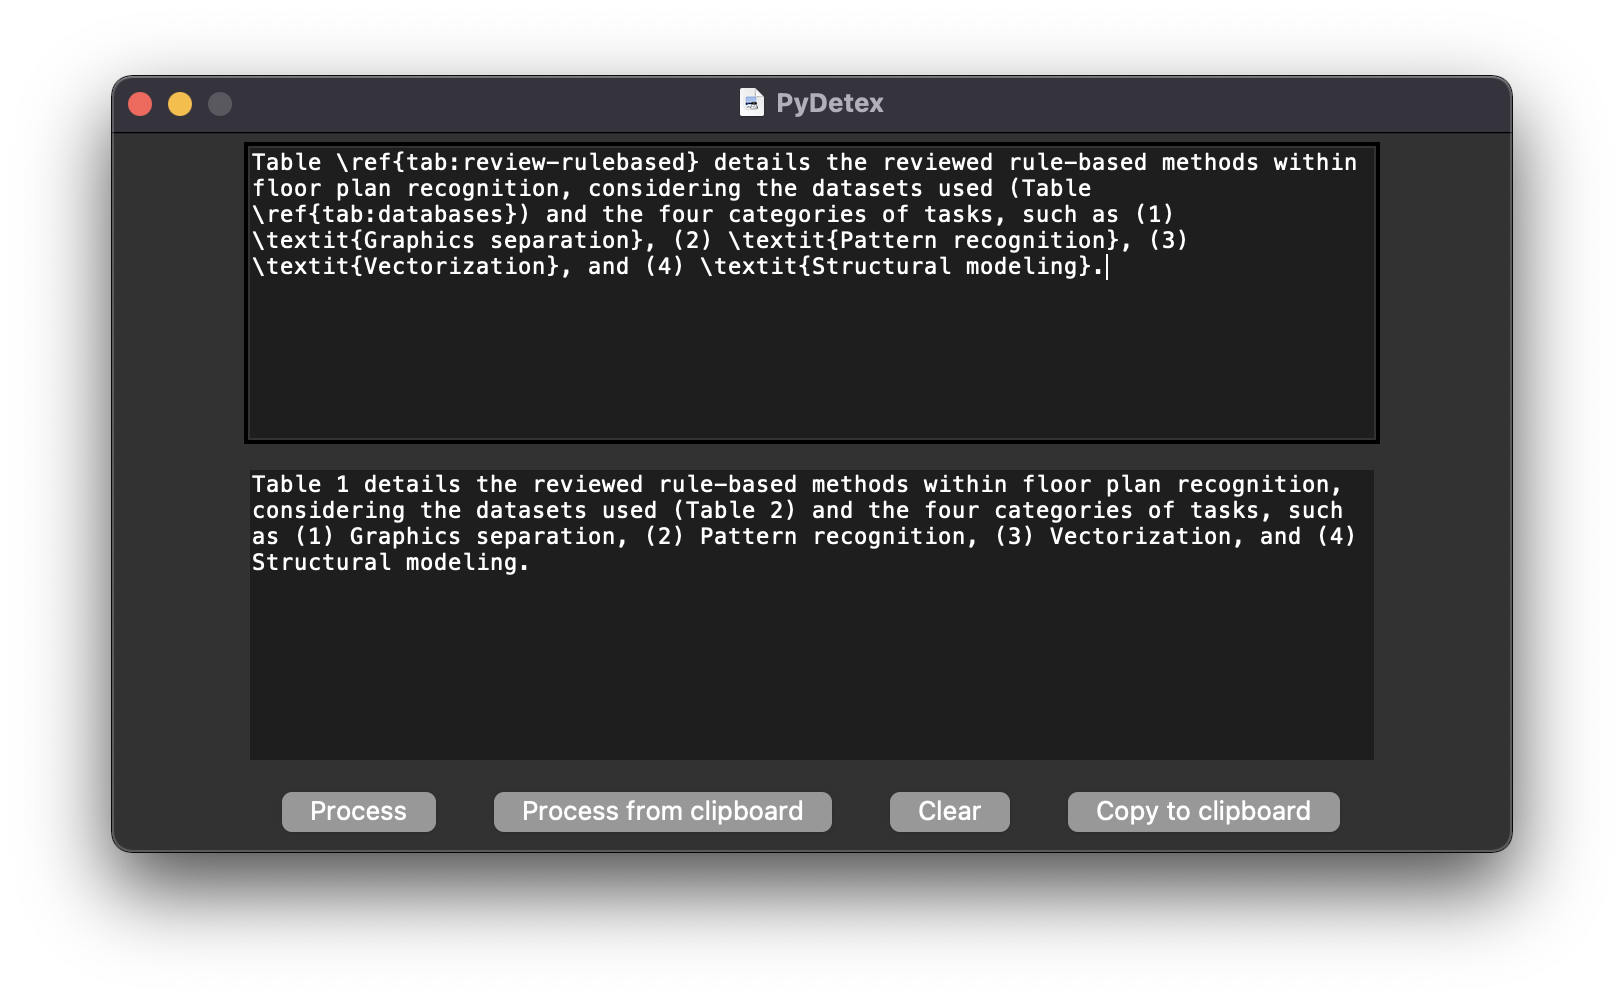
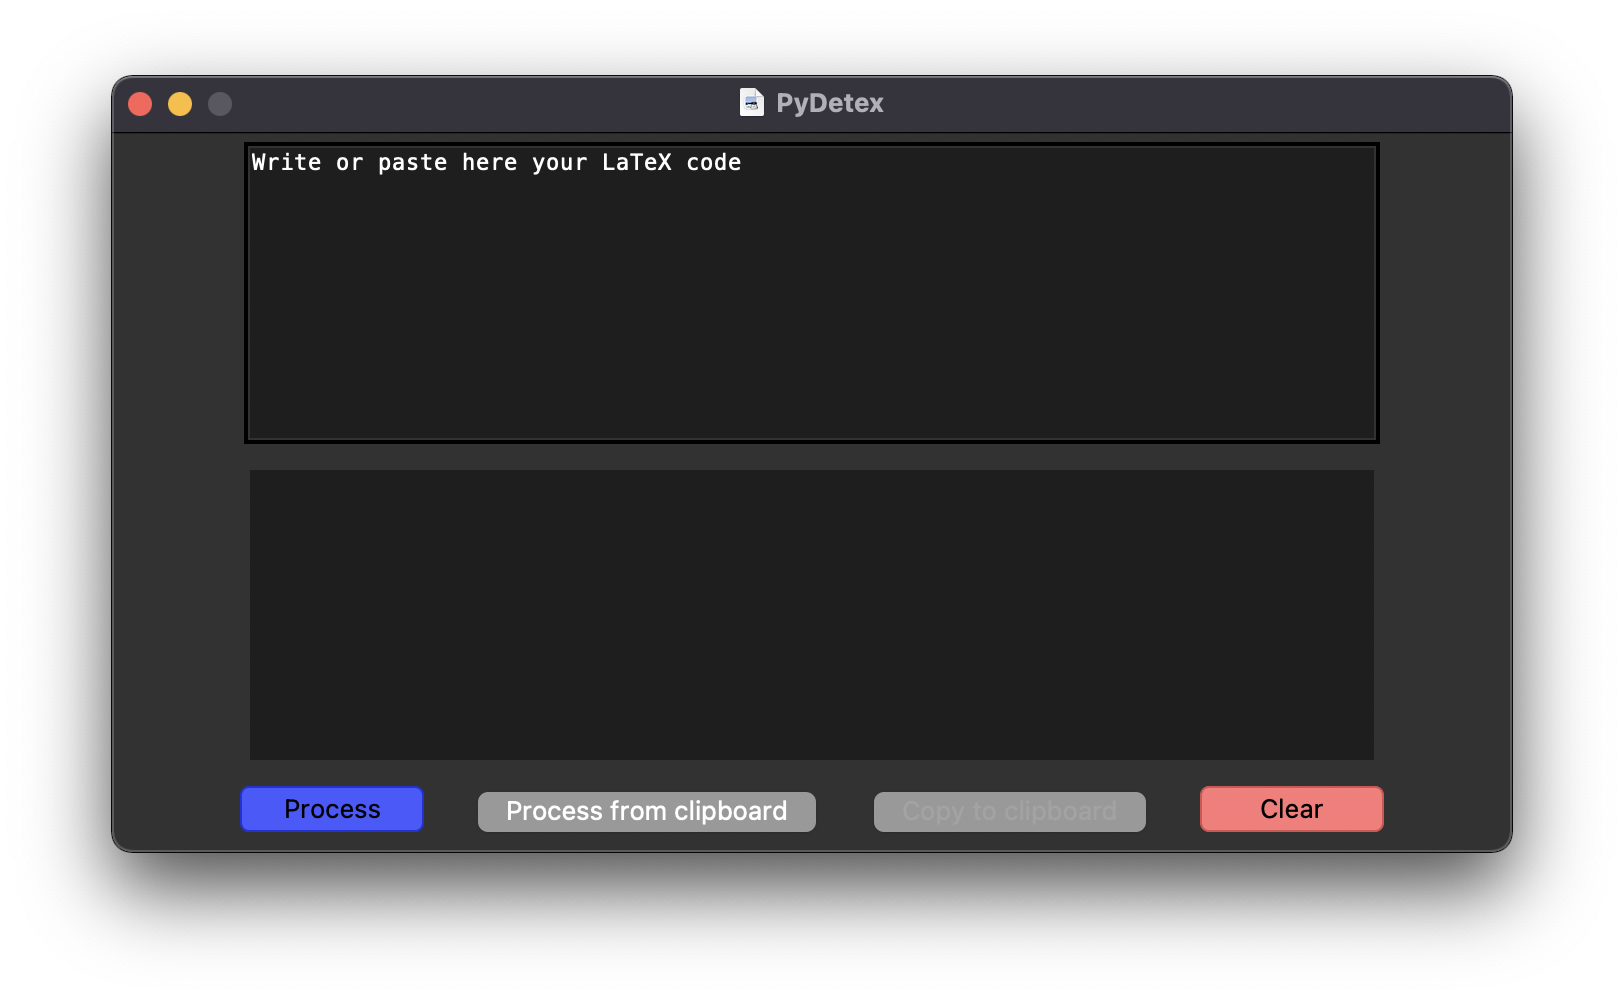
Improve readme, gui button versions

Changed region(s): [[0.1539, 0.155, 0.8313, 0.279], [0.1539, 0.465, 0.8313, 0.589], [0.1232, 0.775, 0.8621, 0.837]]

diff --git a/pydetex/gui.py b/pydetex/gui.py
@@ -9,7 +9,6 @@ Basic gui that convers and executes a given pipeline.
 __all__ = ['PyDetexGUI']
 
 import tkinter as tk
-from tkmacosx import Button
 
 import platform
 import os
@@ -22,8 +21,12 @@ from pydetex.pipelines import simple_pipeline
 IS_OSX = platform.system() == 'Darwin'
 
 if IS_OSX:
+    from tkmacosx import Button
+
     PROGRAMSIZE = 700, 360
 else:
+    from tkinter import Button
+
     PROGRAMSIZE = 700, 415
 
 # Set resouces path

diff --git a/pydetex/version.py b/pydetex/version.py
@@ -34,6 +34,6 @@ class Version(tuple):
     patch = property(lambda self: self[2])
 
 
-vernum = Version(0, 0, 1)
+vernum = Version(0, 1, 0)
 ver = str(vernum)
 rev = ''

diff --git a/README.rst b/README.rst
@@ -56,7 +56,7 @@ A python application that removes LaTeX code and transforms it to plain text for
 Install Instructions
 --------------------
 
-PyDetex can be installed via pip. Simply run:
+PyDetex can be installed via pip, for both MacOS, Windows & Linux. Simply run:
 
 .. code-block:: bash
 
